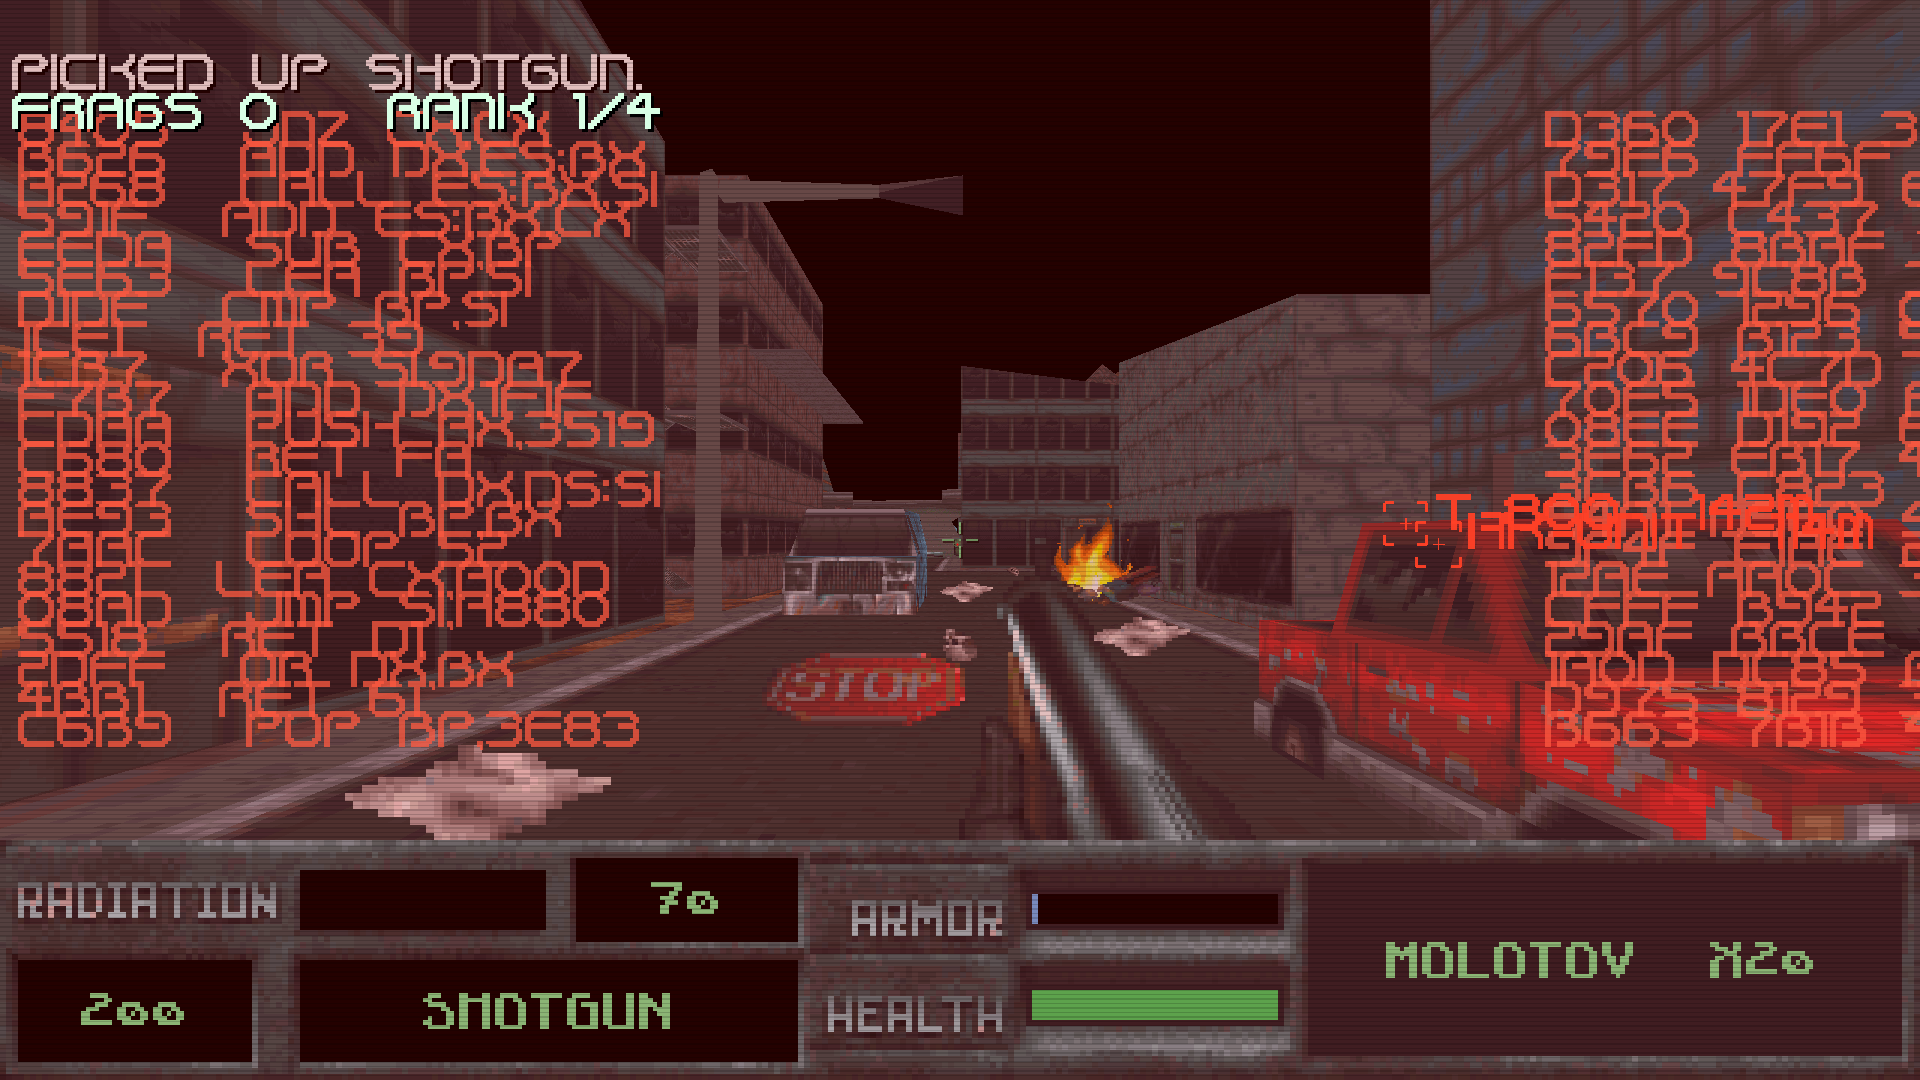
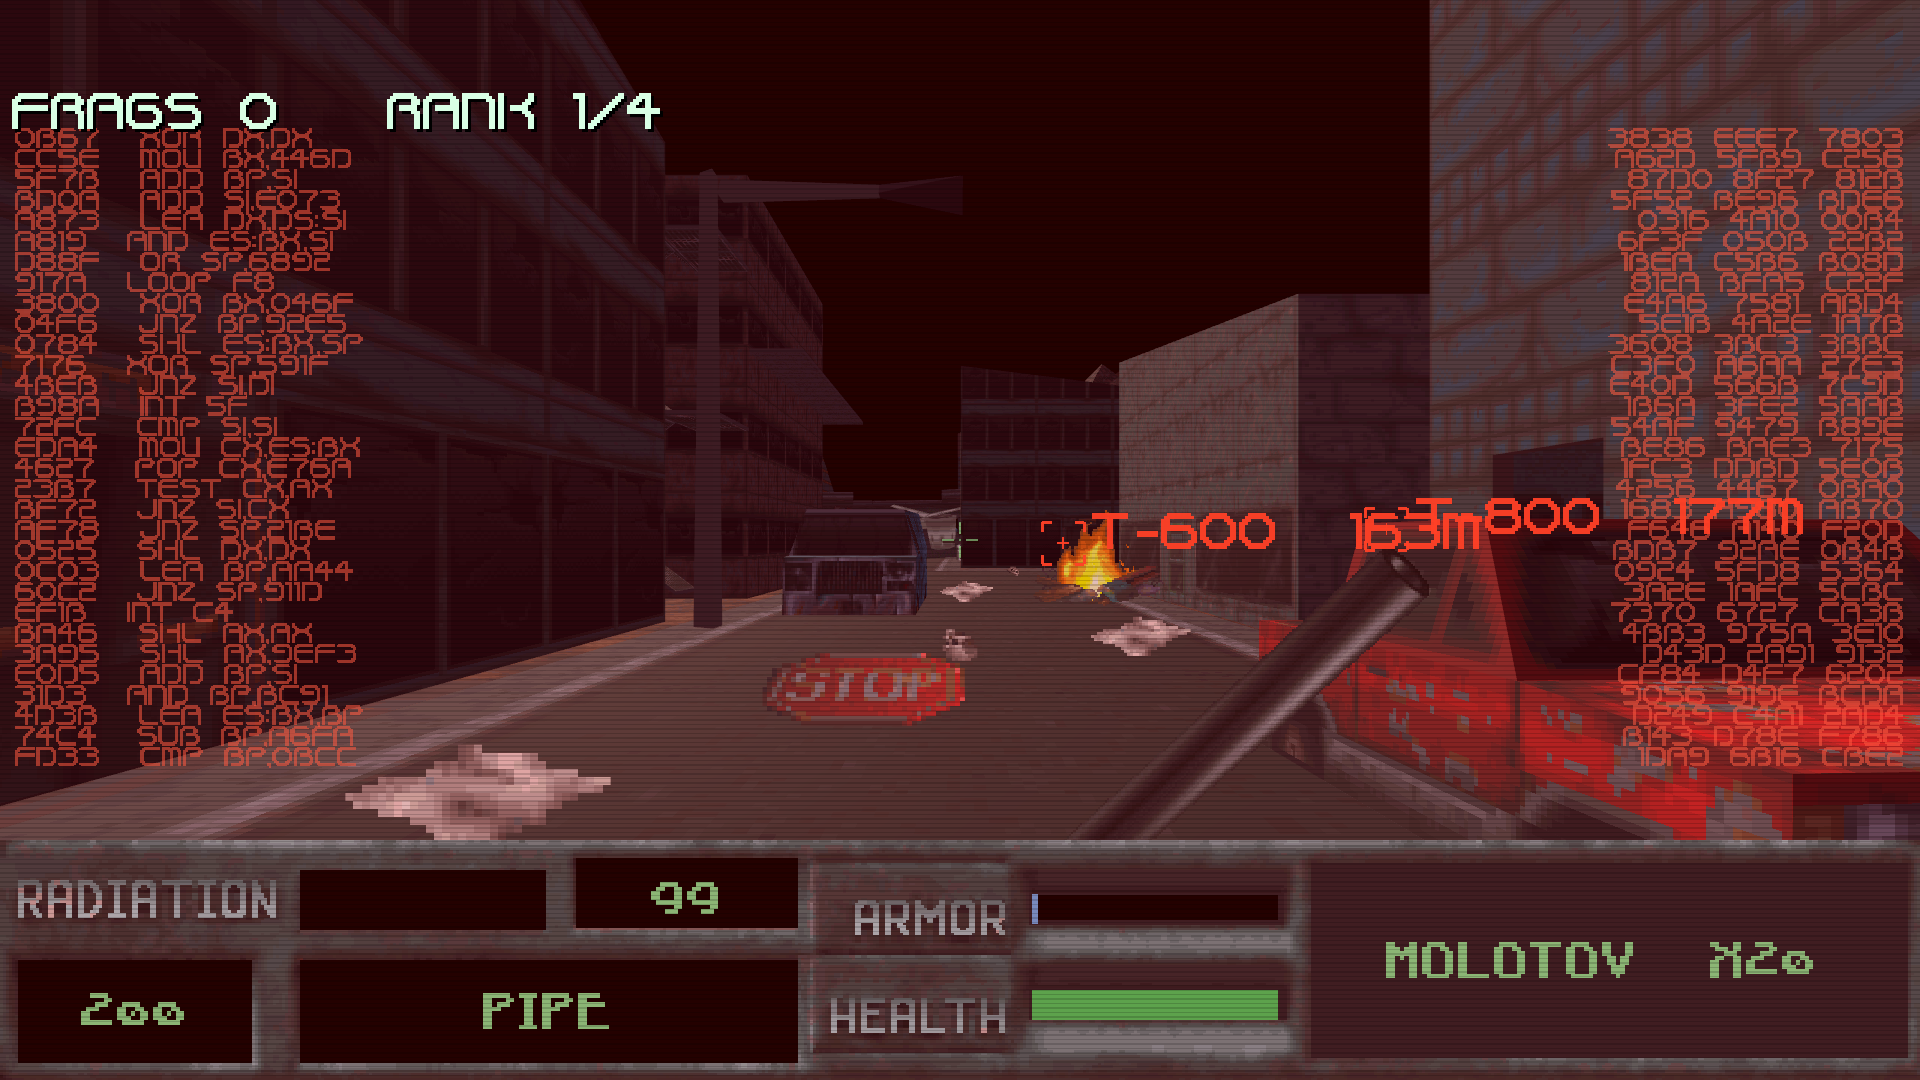
Make the machine-vision readout actually smaller, and refresh the shots
The earlier pass at "ten text co ide cez obrazovku trochu moc velky"
changed nothing, and Marek's next screenshot showed it: this is the DOS
BITMAP font, which renders at its own cell size whatever font_size is
asked for, so lowering the number was a no-op and calling it fixed was
wrong. A bitmap font gets smaller by scaling the canvas, so the two
readout columns are now drawn through a transform at 0.55 with their
coordinates divided back out of it. The target tags keep the font's own
size — who and how far away is the one thing that view is for.

Screenshots retaken with the port as it now stands (dynamic lights, edge
smoothing, the 640x480 HUD and weapon art), plus two new ones: the
network setup screen with its rotating avatar, and the render settings
dialog cut from the original art. The street lamps that dynamic lights
brought in show in three of them — 93 of them on the highway map.

README: the new screenshots and a "looks the original could not manage"
entry for the optional settings.

Claude-Session: https://claude.ai/code/session_01NHsdRQHaX4HGALj7YAkwY4

diff --git a/README.md b/README.md
@@ -15,11 +15,14 @@ Nothing from the original games is included here. You need the games.
 | ![The canyon on mission 1](screenshots/map210.png) | ![The ruined city](screenshots/map230.png) |
 | ![Inside Cyberdyne](screenshots/map232.png) | ![The jeep](screenshots/map260.png) |
 | ![The HK over the highway](screenshots/map270.png) | ![Deathmatch through machine vision](screenshots/deathmatch.png) |
+| ![The network setup screen](screenshots/netmenu.png) | ![The render settings](screenshots/settings.png) |
 
 Left to right, top to bottom: mission 1's canyon under the moon; the
 ruined city; the Cyberdyne building; the jeep with its own HUD; the HK
-flying the highway with the convoy ahead; and a deathmatch seen through
-the TERMINATOR class's machine vision.
+flying the highway with the convoy ahead; a deathmatch seen through the
+TERMINATOR class's machine vision; the network setup screen, whose left
+box turns the body you will play as; and the render settings, cut out of
+the original dialog art.
 
 ## What works
 
@@ -36,6 +39,13 @@ the TERMINATOR class's machine vision.
 - **Vehicles** — the jeep and the HK, with the DOS cockpits.
 - **Deathmatch** over LAN with bots, HUMAN and TERMINATOR classes,
   machine vision and the motion detector, the original arenas.
+- **Looks the original could not manage**, each off by default so the
+  port still starts as DOS drew it: dynamic lights from the gunfire, the
+  explosions and the rounds in flight (which also lights the street
+  lamps the DOS renderer only drew as bright pixels — 93 of them on the
+  highway map), edge smoothing, smooth texture filtering, the game's own
+  640x480 HUD and weapon art, a brightness dial, and a render scale that
+  can go *above* the window.
 - **Save and load**, the pause menu, the DOS options screens, the
   automap, statistics.
 - **Future Shock** data works too: point the game at that install and it
